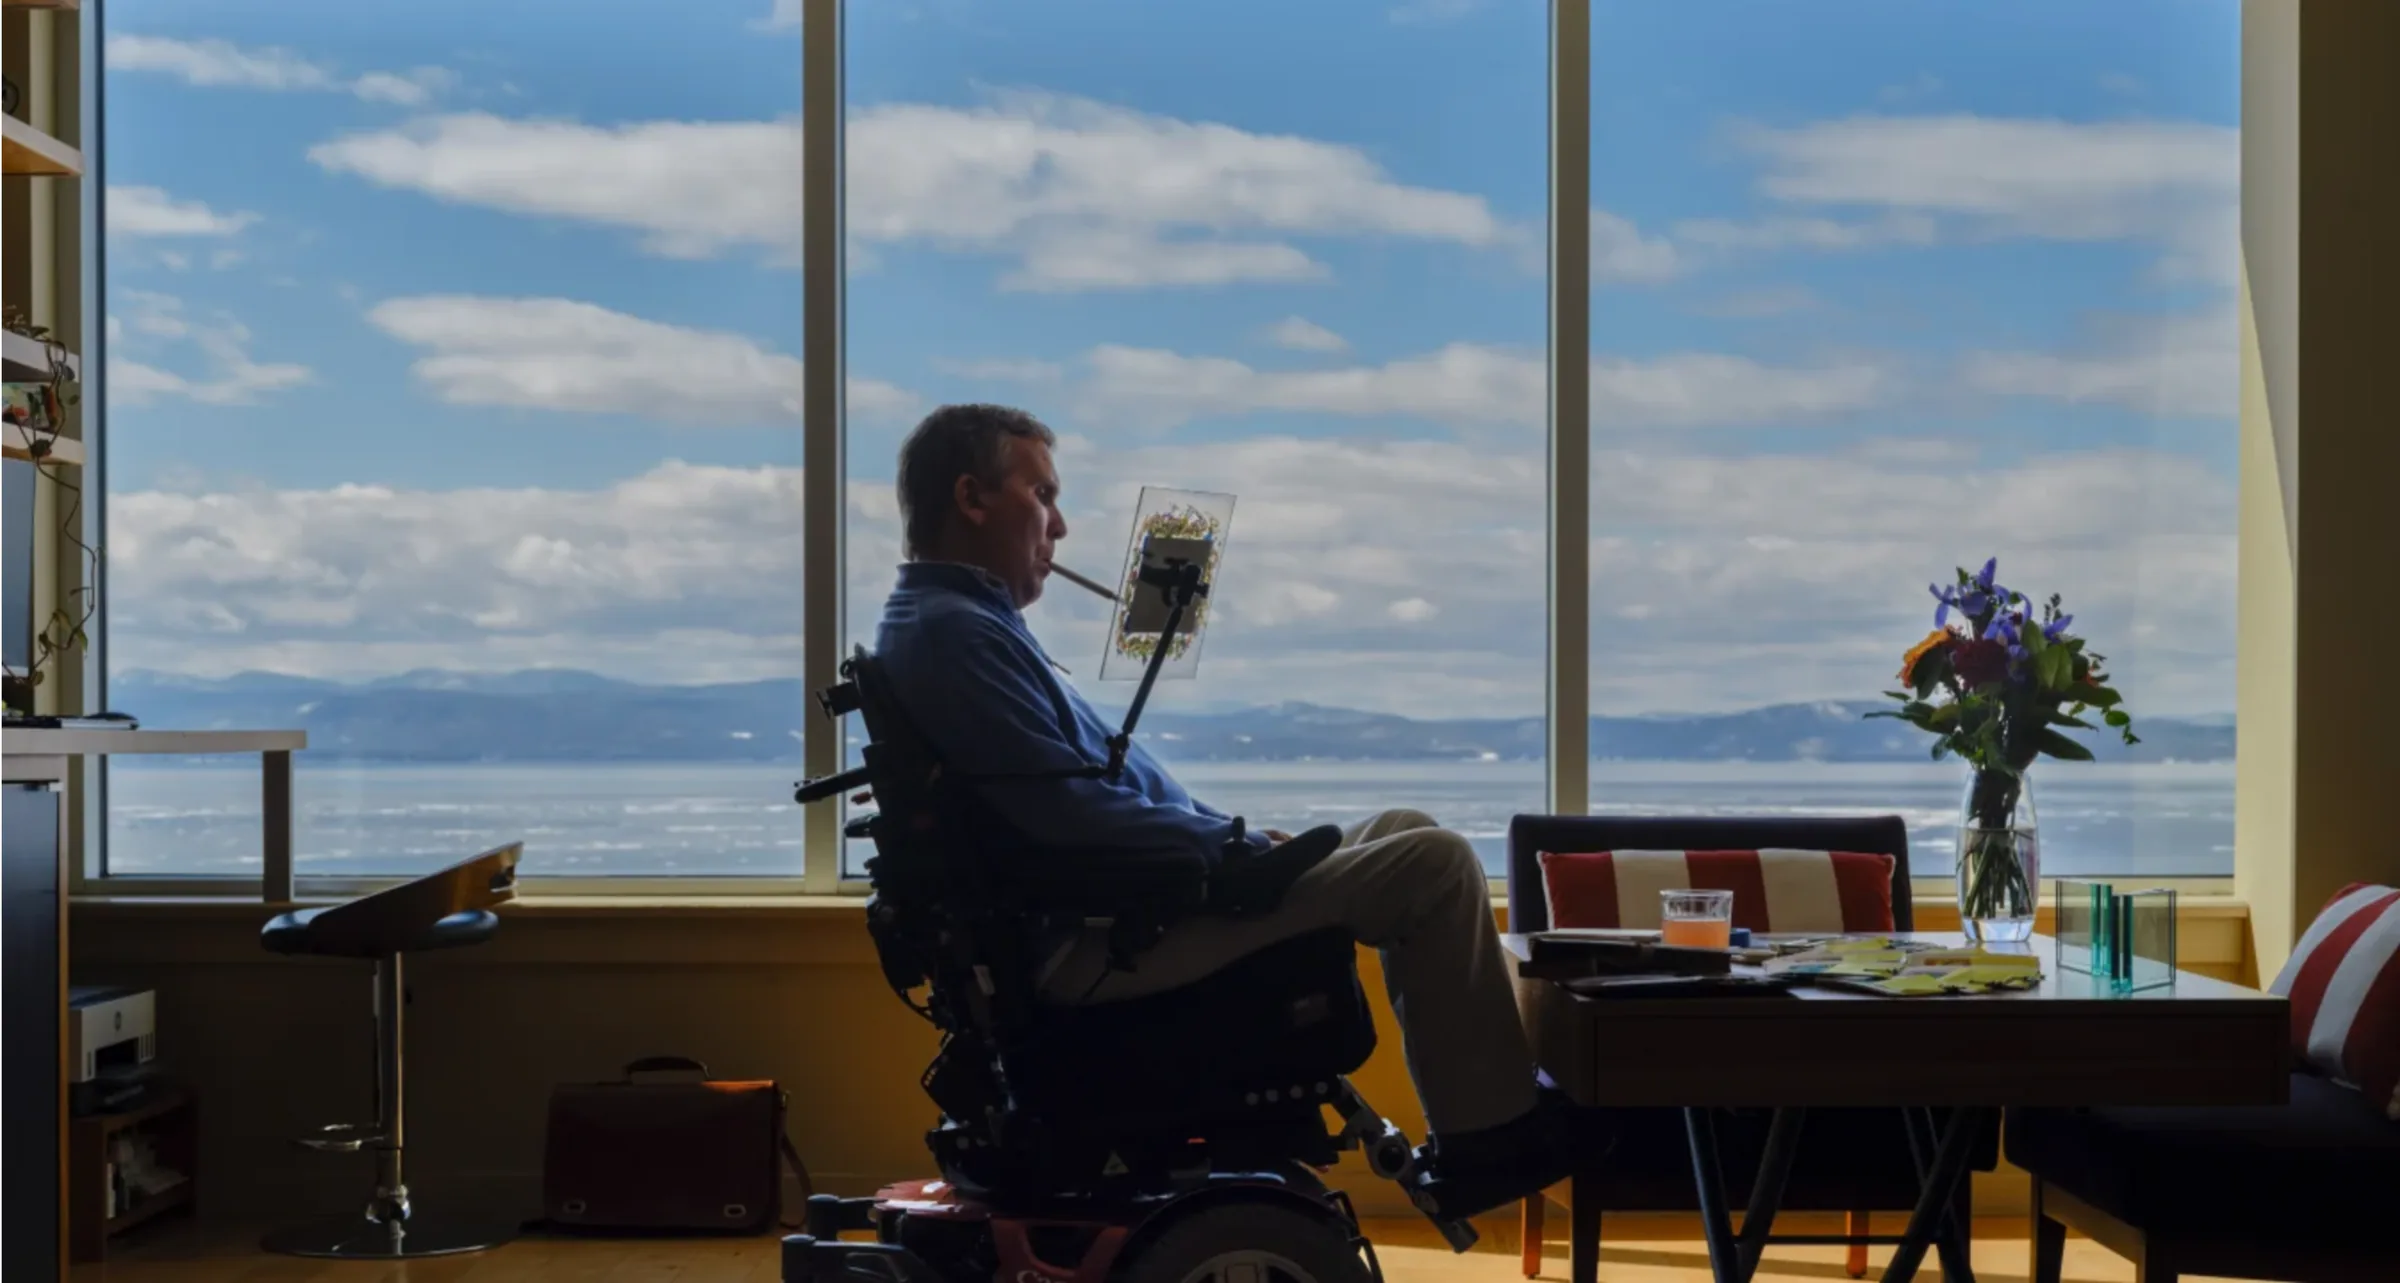
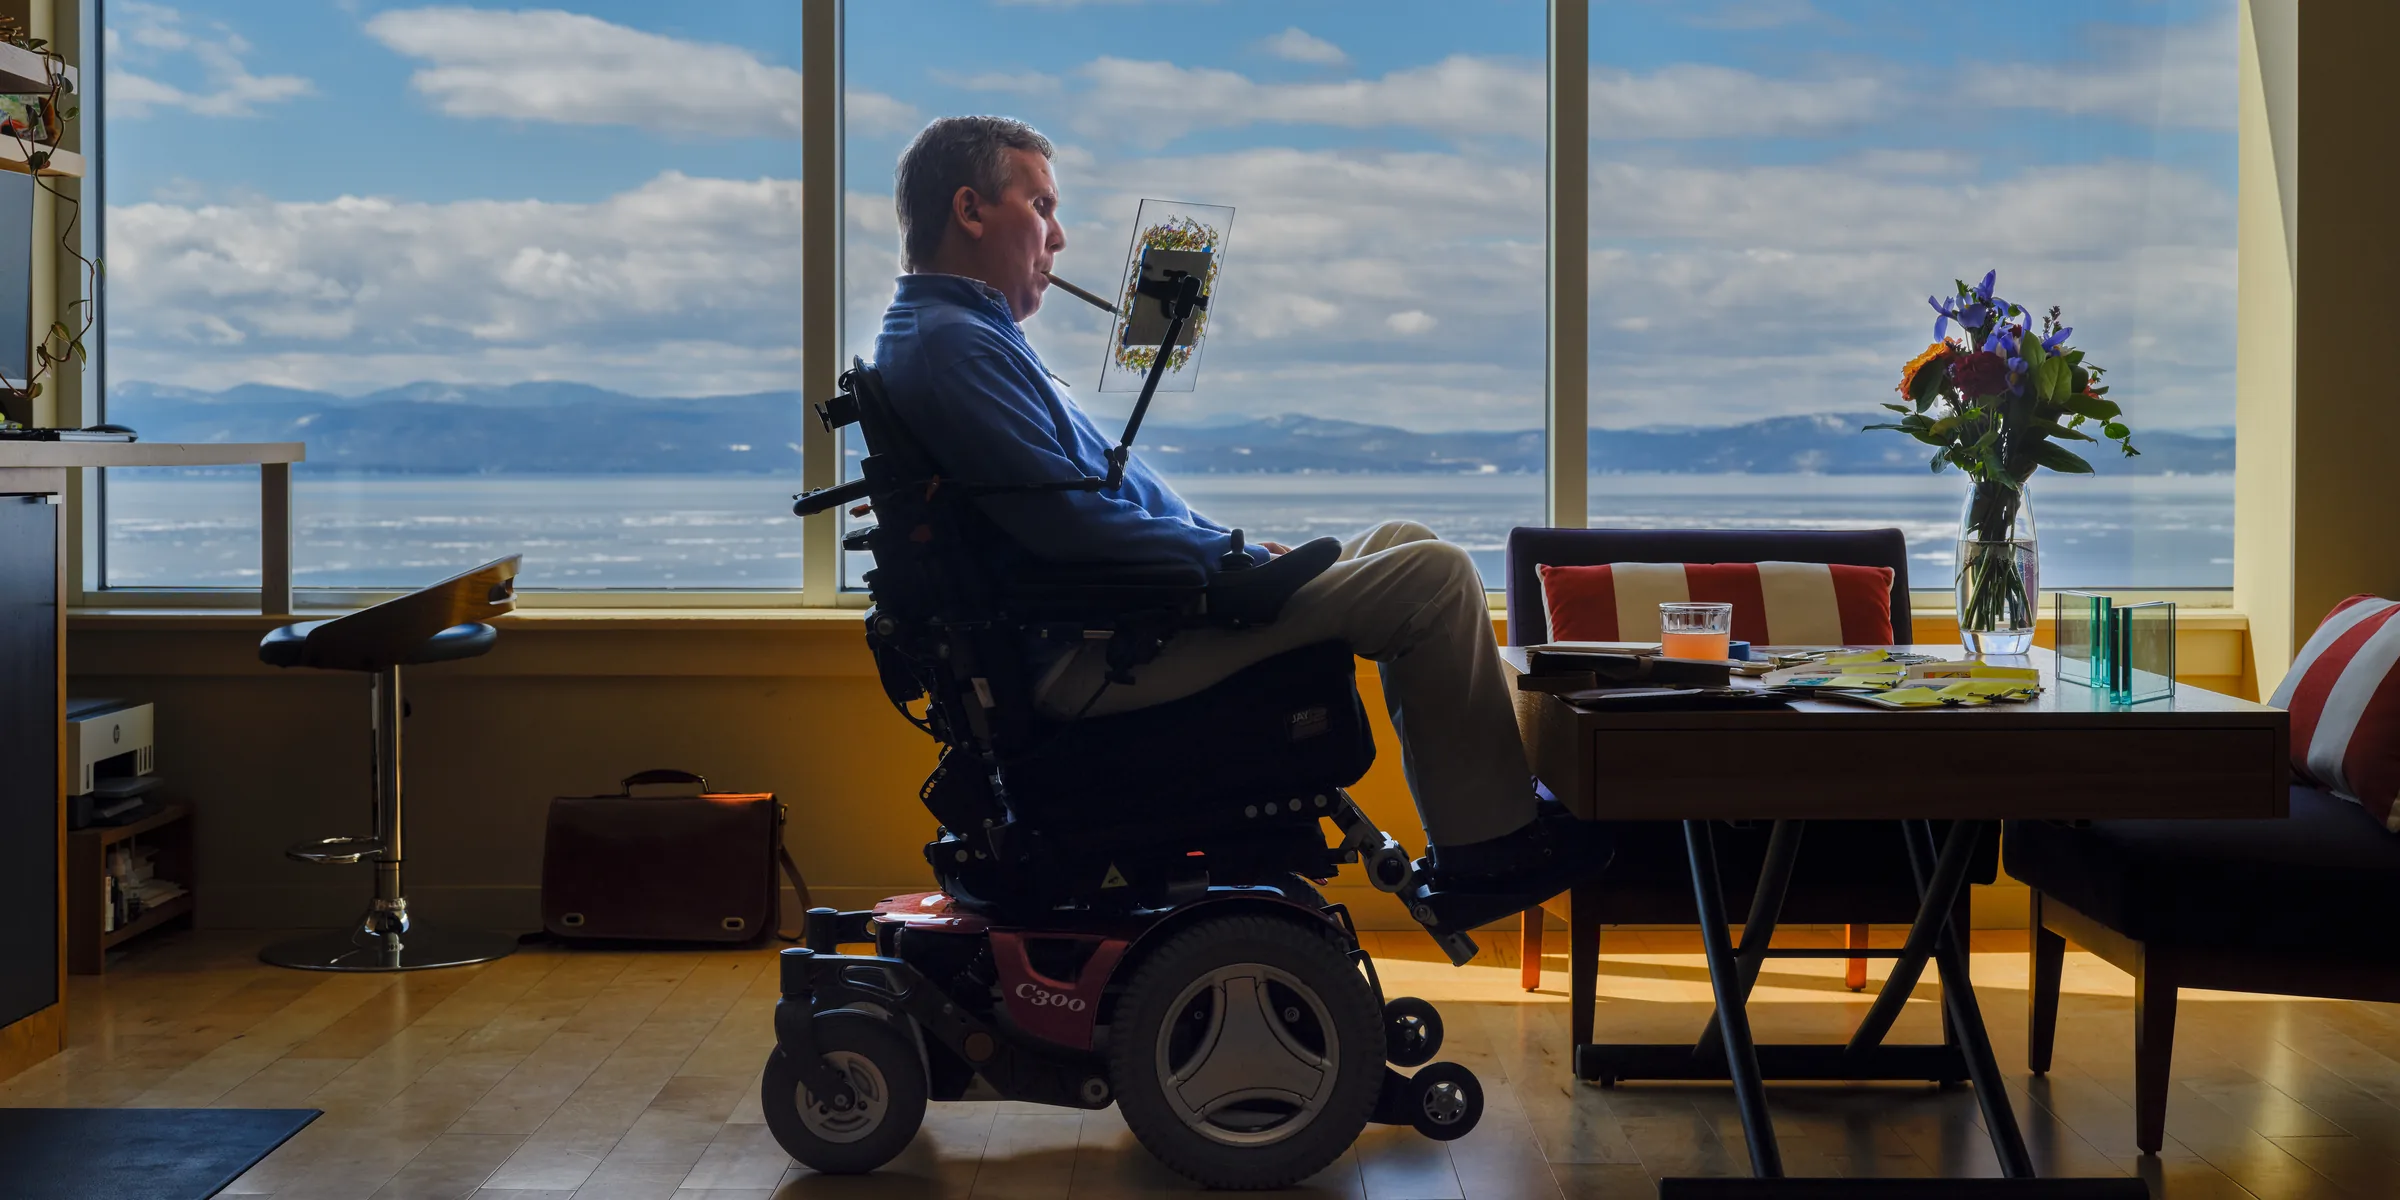
Contact: new photo of Ned (NC_9394_v2), 2:1 crop showing the whole chair, served at 1600 / 2400 / 3600px; old 3 MB hero.png removed

diff --git a/Contact-tabs.dc.html b/Contact-tabs.dc.html
@@ -109,9 +109,9 @@ html { scrollbar-gutter: stable; }
 <main style="max-width: 1920px; width: 100%; box-sizing: border-box; margin: 0 auto; padding: {{ mainPad }}; flex: 1" data-screen-label="Contact (tabs)">
   <section style="padding-top: 48px">
     <picture>
-      <source media="(min-width: 2001px)" srcset="assets/hero.png">
+      <source media="(min-width: 2001px)" type="image/webp" srcset="assets/hero-3600.webp">
       <source type="image/webp" srcset="assets/hero-1600.webp 1600w, assets/hero-2400.webp 2400w" sizes="(min-width: 1024px) 80vw, 100vw">
-      <img src="assets/hero-1600.webp" alt="Studio by the water" style="display: block; width: 100%; aspect-ratio: 2 / 1; object-fit: cover">
+      <img src="assets/hero-1600.webp" alt="Ned Church painting at his window overlooking the lake" style="display: block; width: 100%; aspect-ratio: 2 / 1; object-fit: cover">
     </picture>
     <div style="display: flex; justify-content: space-between; align-items: baseline; gap: 32px; padding: 20px 0; border-bottom: 1px solid #E7E4DE; font-size: 13px; flex-wrap: wrap">
       <div style="display: flex; gap: 16px 40px; color: #6E6B66; flex-wrap: wrap">

diff --git a/SITE-STATE.md b/SITE-STATE.md
@@ -135,7 +135,7 @@ The three templated gallery files (clean, boxed, horizontal) share the same data
 ## Contact
 
 - The original single-page contact layout (`Contact Page.dc.html`) was removed on 2026-09-21; it is recoverable from the `pinned-2026-09-21` tag.
-- `Contact-tabs.dc.html`: same hero (served light: `assets/hero-1600.webp`, 52 KB, or `hero-2400.webp`, 82 KB, on high-density screens, picked by the browser; the 3 MB original `assets/hero.png` only on screens wider than 2000px), then three tabs — Contact (form: Name, Email, Message, Send — opens the visitor's mail app to NSChurch@gmail.com; Send has the sweep hover described under the buy page; the field being typed in gets a very light grey ground, #EAEAEA; after a successful Send the fields and button give way, in the same spot, to "Thank you for reaching out. We will be in contact very soon." in 26px EB Garamond, the image staying beside it), Shipping, Returns & Exchanges. The image beside the form and the shipping text is the silver ampersand-and-leaves sculpture on grey (`uploads/ampersand-sculpture.webp`, a square file). On the Contact tab the whole square image is shown, never cropped: from 1100px up it sits in the right-hand column (44% of the content width, at least 440px) with its top level with the "Get in touch" heading, the form's fields take the narrower left column, and the Message field stretches so its bottom line meets the bottom of the image exactly; the Send button sits on the row below, its confirmation note floating under it. Under 1100px the page stacks form, Send, then the full square image (max 520px). On the Shipping tab it keeps the sticky portrait crop. `#shipping` / `#returns` open that tab.
+- `Contact-tabs.dc.html`: hero photo of Ned at his window (`NC_9394_v2.jpg`, delivered 2026-10-08, 11648 x 8736; original kept in `_incoming/images/`, not in git), cropped to the page's 2:1 strip starting a quarter of the way down so Ned, the chair and the wheels all show; served light: `assets/hero-1600.webp` (84 KB) or `hero-2400.webp` (147 KB) on high-density screens, picked by the browser, and `hero-3600.webp` (266 KB) on screens wider than 2000px. Then then three tabs — Contact (form: Name, Email, Message, Send — opens the visitor's mail app to NSChurch@gmail.com; Send has the sweep hover described under the buy page; the field being typed in gets a very light grey ground, #EAEAEA; after a successful Send the fields and button give way, in the same spot, to "Thank you for reaching out. We will be in contact very soon." in 26px EB Garamond, the image staying beside it), Shipping, Returns & Exchanges. The image beside the form and the shipping text is the silver ampersand-and-leaves sculpture on grey (`uploads/ampersand-sculpture.webp`, a square file). On the Contact tab the whole square image is shown, never cropped: from 1100px up it sits in the right-hand column (44% of the content width, at least 440px) with its top level with the "Get in touch" heading, the form's fields take the narrower left column, and the Message field stretches so its bottom line meets the bottom of the image exactly; the Send button sits on the row below, its confirmation note floating under it. Under 1100px the page stacks form, Send, then the full square image (max 520px). On the Shipping tab it keeps the sticky portrait crop. `#shipping` / `#returns` open that tab.
 
 ## Assets
 
